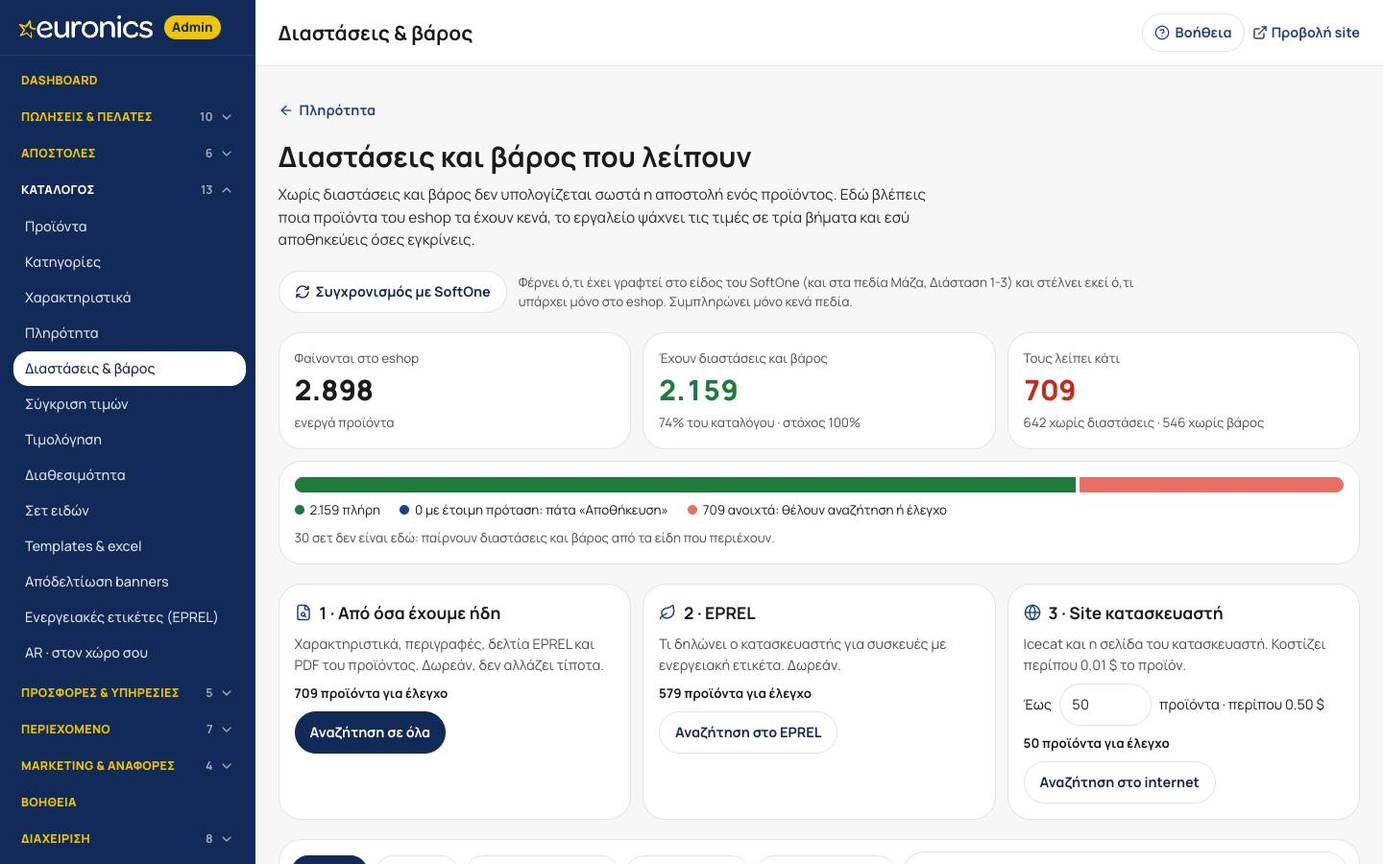
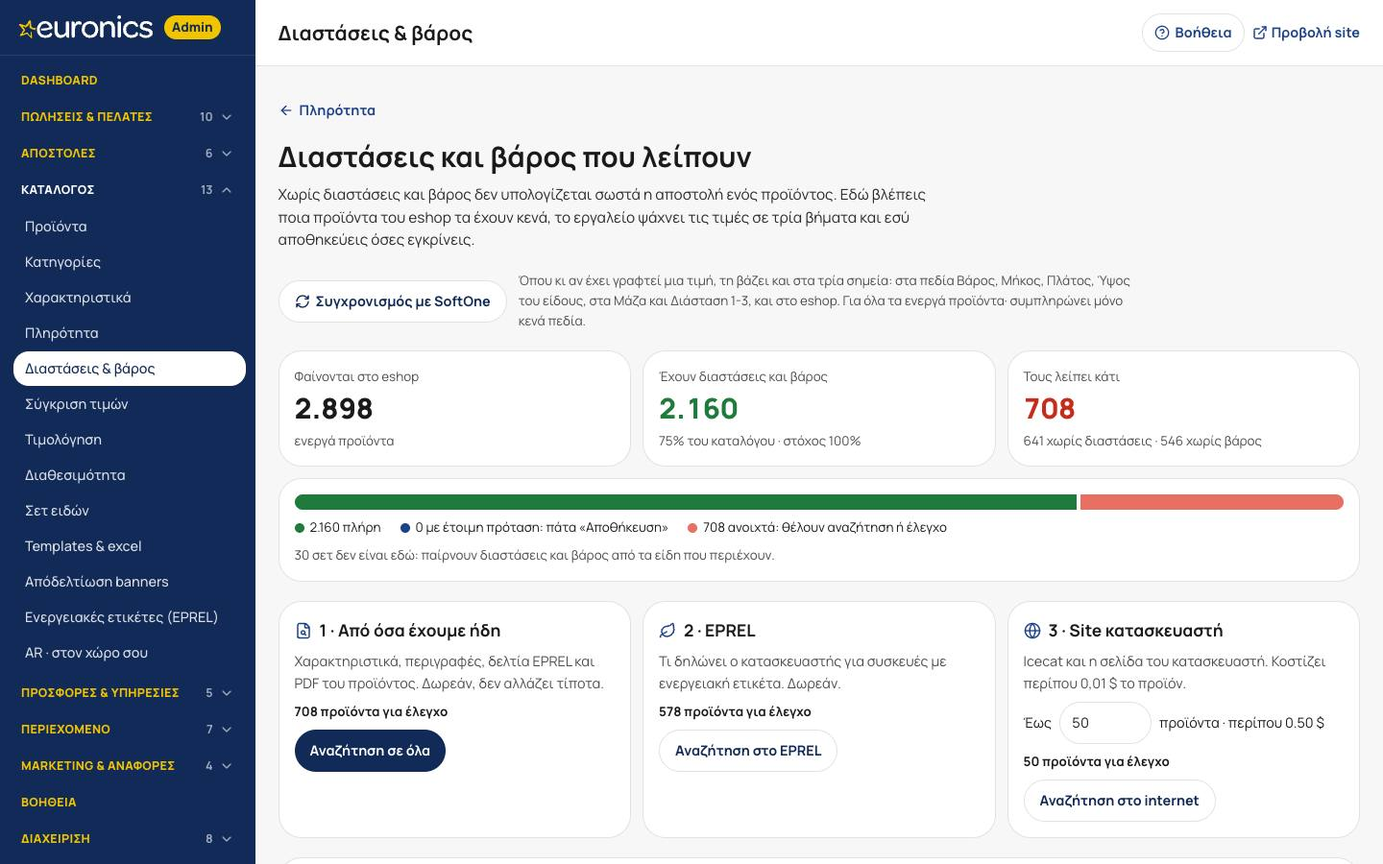
Διαστάσεις & βάρος: κουμπί «Από SoftOne» σε κάθε προϊόν (συγχρονισμός μόνο του συγκεκριμένου, με μήνυμα για το τι άλλαξε) και ο συγχρονισμός ενημερώνει πάντα και τα τρία σημεία, όπου κι αν γράφτηκε η τιμή: custom πεδία του είδους (Βάρος, Μήκος, Πλάτος, Ύψος), τυπικά (Μάζα, Διάσταση 1-3) και πεδία το

diff --git a/lib/help/content/index.ts b/lib/help/content/index.ts
@@ -936,10 +936,11 @@ export const HELP_PAGES: HelpPage[] = [
     title: "Διαστάσεις και βάρος που λείπουν",
     summary: "Δείχνει ποια προϊόντα που φαίνονται στο eshop δεν έχουν διαστάσεις ή βάρος (χωρίς αυτά δεν υπολογίζεται σωστά η αποστολή) και τα συμπληρώνει μαζικά. Το εργαλείο ψάχνει τις τιμές σε τρία βήματα, δείχνει από πού βγήκε η καθεμία και αποθηκεύει μόνο όσες εγκρίνεις.",
     parts: [
-      { key: "dims-missing.sync", title: "Συγχρονισμός με SoftOne", text: "Για όταν κάποιος έγραψε διαστάσεις ή βάρος απευθείας στο SoftOne και δεν φαίνονται εδώ. Το eshop διαβάζει τα πεδία Βάρος, Μήκος, Πλάτος, Ύψος του είδους· αν οι τιμές μπήκαν στα Μάζα και Διάσταση 1-3, ο συγχρονισμός τις αντιγράφει και στα πρώτα (και αντίστροφα), στέλνει στο SoftOne ό,τι υπάρχει μόνο στο eshop και ξαναδιαβάζει το είδος. Συμπληρώνει μόνο κενά πεδία: όπου υπάρχει ήδη τιμή, ακόμη και διαφορετική, δεν αλλάζει. Δείχνει πρόοδο και σταματά με «Σταμάτα»· αν το πατήσεις ξανά συνεχίζει με τα υπόλοιπα." },
+      { key: "dims-missing.sync", title: "Συγχρονισμός με SoftOne", text: "Για όταν κάποιος έγραψε διαστάσεις ή βάρος απευθείας στο SoftOne και δεν φαίνονται εδώ. Το eshop διαβάζει τα πεδία Βάρος, Μήκος, Πλάτος, Ύψος του είδους· αν οι τιμές μπήκαν στα Μάζα και Διάσταση 1-3, ο συγχρονισμός τις αντιγράφει και στα πρώτα (και αντίστροφα), στέλνει στο SoftOne ό,τι υπάρχει μόνο στο eshop, ξαναδιαβάζει το είδος και γεμίζει τα δικά μας πεδία του eshop. Έτσι, όπου κι αν γράφτηκε μια τιμή, καταλήγει και στα τρία σημεία, για όλα τα ενεργά προϊόντα και όχι μόνο όσα φαίνονται στη λίστα. Η πρώτη φορά αφορά πολλά είδη και παίρνει ώρα. Συμπληρώνει μόνο κενά πεδία: όπου υπάρχει ήδη τιμή, ακόμη και διαφορετική, δεν αλλάζει. Δείχνει πρόοδο και σταματά με «Σταμάτα»· αν το πατήσεις ξανά συνεχίζει με τα υπόλοιπα." },
       { key: "dims-missing.summary", title: "Πού βρισκόμαστε", text: "Πόσα προϊόντα φαίνονται στο eshop, πόσα έχουν διαστάσεις και βάρος και πόσα όχι. Η μπάρα: πράσινο = πλήρη, μπλε = έχουν έτοιμη πρόταση και περιμένουν «Αποθήκευση», κόκκινο = ανοιχτά. Τα σετ δεν μετρούν εδώ, παίρνουν τις τιμές από τα είδη τους." },
       { key: "dims-missing.steps", title: "Τα τρία βήματα αναζήτησης", text: "1. Από όσα έχουμε ήδη: χαρακτηριστικά, περιγραφές, δελτία EPREL και PDF. Δωρεάν, δεν αλλάζει τίποτα. 2. EPREL: τι δηλώνει ο κατασκευαστής για συσκευές με ενεργειακή ετικέτα. Δωρεάν· ό,τι βρεθεί μένει στο προϊόν (ετικέτα, χαρακτηριστικά). 3. Site κατασκευαστή: Icecat και η σελίδα του κατασκευαστή, περίπου 0,01 $ το προϊόν, με όριο που βάζεις εσύ. Κάθε βήμα ψάχνει μόνο όσα δεν έχουν ακόμη έτοιμη πρόταση. Με «Σταμάτα» κρατάς ό,τι βρέθηκε ως εκείνη τη στιγμή." },
       { key: "dims-missing.list", title: "Προϊόντα και προτάσεις", text: "Ανά προϊόν: τι λείπει, η πρόταση (Πλάτος × Ύψος × Βάθος σε εκ., βάρος σε κιλά), από ποια πηγή και πόσες πηγές συμφωνούν. «Έτοιμο» = βρέθηκε ό,τι λείπει και τίποτα δεν είναι ύποπτο· είναι ήδη τσεκαρισμένο. «Απαιτεί ενέργεια» = απίθανη τιμή (π.χ. βάρος λίγων γραμμαρίων σε μεγάλη συσκευή), πηγές που διαφωνούν ή βρέθηκε μόνο το ένα από τα δύο· αν συμφωνείς, πάτα «Σωστό, αποθήκευση» στη γραμμή του και αποθηκεύεται αμέσως μόνο αυτό (ή τσέκαρέ το για να φύγει μαζί με τα υπόλοιπα). «Δεν βρέθηκε» = καμία πηγή δεν έδωσε τιμή." },
+      { key: "dims-missing.sync-one", title: "Συγχρονισμός ενός προϊόντος", text: "Το κουμπί «Από SoftOne» στη γραμμή κάνει τον ίδιο συγχρονισμό μόνο για αυτό το προϊόν, σε λίγα δευτερόλεπτα: χρήσιμο όταν μόλις έγραψες διαστάσεις ή βάρος στο είδος του SoftOne. Το μήνυμα λέει αν το προϊόν συμπληρώθηκε και έφυγε από τη λίστα ή τι του λείπει ακόμη." },
       { key: "dims-missing.manual", title: "Καταχώρηση με το χέρι", text: "Το κουμπί «Καταχώρηση» σε κάθε προϊόν ανοίγει παράθυρο όπου γράφεις πλάτος, ύψος, βάθος (εκ.) και βάρος (κιλά). Ζητά μόνο ό,τι λείπει και ξεκινά με την πρόταση, αν υπάρχει. Οι διαστάσεις μπαίνουν και οι τρεις μαζί. Αποθηκεύεται αμέσως, στο eshop και στο SoftOne, όπως και οι προτάσεις." },
       { key: "dims-missing.save", title: "Αποθήκευση", text: "Αποθηκεύει τα τσεκαρισμένα. Στο eshop πάντα. Στο είδος του SoftOne (όταν είναι ανοιχτό το «Αλλαγές προϊόντων προς SoftOne»): Βάρος, Μήκος, Πλάτος, Ύψος και τα τυπικά πεδία Μάζα και Διάσταση 1 (μήκος), 2 (πλάτος), 3 (ύψος), σε κιλά και εκατοστά. Γράφεται μόνο πεδίο που είναι κενό· ό,τι υπάρχει ήδη δεν αλλάζει και οι τρεις διαστάσεις γράφονται μόνο μαζί." },
       { key: "dims-missing.result", title: "Τι αποθηκεύτηκε", text: "Μετά την αποθήκευση: πόσα γράφτηκαν και στο SoftOne (πράσινο), πόσα μόνο στο eshop (μπλε) και ποια απέτυχαν με τον λόγο. Όσα αποθηκεύτηκαν φεύγουν από τη λίστα." },

diff --git a/components/admin/catalog/DimsMissingTool.tsx b/components/admin/catalog/DimsMissingTool.tsx
@@ -38,6 +38,7 @@ export function DimsMissingTool({ overview, canWrite, s1On, eprelKey }: { overvi
   const stop = useRef(false);
   const [savingId, setSavingId] = useState<string | null>(null);
   const [manual, setManual] = useState<MissingRow | null>(null);
+  const [syncingId, setSyncingId] = useState<string | null>(null);
 
   const statusOf = (id: string) => props.get(id)?.status ?? "pending";
   const counts = useMemo(() => { const c = { ready: 0, review: 0, none: 0, pending: 0 }; for (const r of rows) c[props.get(r.id)?.status ?? "pending"]++; return c; }, [rows, props]);
@@ -109,6 +110,18 @@ export function DimsMissingTool({ overview, canWrite, s1On, eprelKey }: { overvi
     } catch { setMsg({ ok: false, text: "Ο συγχρονισμός σταμάτησε από σφάλμα. Πάτα ξανά για να συνεχίσει από εκεί που έμεινε." }); }
     setBusy(null);
   }
+  /** Συγχρονισμός ενός προϊόντος με το SoftOne (ίδιος κανόνας με τον μαζικό). */
+  async function syncOne(r: MissingRow) {
+    setMsg(null); setSaved(null); setSyncingId(r.id);
+    try {
+      const o = await syncRunAction([r.id]);
+      const next = await missingRowsAction();
+      setRows(next);
+      const gone = !next.some((x) => x.id === r.id);
+      setMsg(o.failed.length ? { ok: false, text: `${r.title}: ${o.failed[0].error}` } : { ok: true, text: `${r.title}: ${o.written ? "συμπληρώθηκαν κενά πεδία στο SoftOne και " : ""}διαβάστηκε ξανά από το SoftOne. ${gone ? "Έχει πλέον διαστάσεις και βάρος και έφυγε από τη λίστα." : "Του λείπουν ακόμη στοιχεία· το SoftOne δεν έχει τιμή σε αυτά τα πεδία."}` });
+    } catch { setMsg({ ok: false, text: "Ο συγχρονισμός του προϊόντος απέτυχε. Δοκίμασε ξανά." }); }
+    setSyncingId(null);
+  }
   const saving = busy?.label === "Αποθήκευση";
   const progress = busy && (
           <div className="rounded-2xl border border-eu-line bg-white p-4 grid gap-2 w-full">
@@ -130,7 +143,7 @@ export function DimsMissingTool({ overview, canWrite, s1On, eprelKey }: { overvi
     <div className="grid gap-5 min-w-0">
       <div data-help="dims-missing.sync" className="flex flex-wrap items-center gap-3">
         <button type="button" disabled={!!busy || !canWrite} onClick={sync} className={`${btn} border border-eu-line bg-white text-eu-navy hover:border-eu-navy`}><RefreshCw className="size-4" aria-hidden /> Συγχρονισμός με SoftOne</button>
-        <p className="m-0 flex-1 min-w-[240px] max-w-[80ch] text-eu-ink-3 text-[length:var(--fs-13)]">Φέρνει ό,τι έχει γραφτεί στο είδος του SoftOne (και στα πεδία Μάζα, Διάσταση 1-3) και στέλνει εκεί ό,τι υπάρχει μόνο στο eshop. Συμπληρώνει μόνο κενά πεδία{s1On ? "" : " · η εγγραφή στο SoftOne είναι κλειστή, οπότε τώρα μόνο διαβάζει"}.</p>
+        <p className="m-0 flex-1 min-w-[240px] max-w-[80ch] text-eu-ink-3 text-[length:var(--fs-13)]">Όπου κι αν έχει γραφτεί μια τιμή, τη βάζει και στα τρία σημεία: στα πεδία Βάρος, Μήκος, Πλάτος, Ύψος του είδους, στα Μάζα και Διάσταση 1-3, και στο eshop. Για όλα τα ενεργά προϊόντα· συμπληρώνει μόνο κενά πεδία{s1On ? "" : " · η εγγραφή στο SoftOne είναι κλειστή, οπότε τώρα μόνο διαβάζει"}.</p>
       </div>
       <section data-help="dims-missing.summary" className="grid gap-3 min-w-0">
         <div className="grid grid-cols-1 @2xl:grid-cols-3 gap-3">
@@ -222,9 +235,10 @@ export function DimsMissingTool({ overview, canWrite, s1On, eprelKey }: { overvi
                   {p?.status === "none" && <div className="text-eu-ink-3 text-[length:var(--fs-13)]">Καμία πηγή δεν έδωσε τιμή. Δοκίμασε το επόμενο βήμα ή συμπλήρωσέ το στην καρτέλα του προϊόντος.</div>}
                   {!p && <div className="text-eu-ink-3 text-[length:var(--fs-13)]">Τρέξε το βήμα 1 για πρόταση.</div>}
                 </div>
-                <div className="col-start-2 @3xl:col-start-auto flex flex-wrap @3xl:flex-col items-center @3xl:items-end gap-2">
+                <div className="col-start-2 @3xl:col-start-auto flex flex-wrap items-center @3xl:justify-end @3xl:max-w-[290px] gap-2">
                   <span className={`w-fit inline-flex items-center gap-1 rounded-full px-2.5 py-1 font-bold text-[length:var(--fs-13)] whitespace-nowrap ${st.cls}`}><st.Icon className="size-3.5" aria-hidden />{st.label}</span>
                   {canWrite && <button type="button" disabled={!!busy} onClick={() => setManual(r)} data-help="dims-missing.manual" className={`${btn} @3xl:min-h-9 px-3 text-[length:var(--fs-13)] border border-eu-line bg-white text-eu-navy hover:border-eu-navy whitespace-nowrap`}><PencilLine className="size-4" aria-hidden /> Καταχώρηση</button>}
+                  {canWrite && <button type="button" disabled={!!busy || !!syncingId} onClick={() => syncOne(r)} data-help="dims-missing.sync-one" className={`${btn} @3xl:min-h-9 px-3 text-[length:var(--fs-13)] border border-eu-line bg-white text-eu-navy hover:border-eu-navy whitespace-nowrap`}><RefreshCw className={`size-4 ${syncingId === r.id ? "animate-spin" : ""}`} aria-hidden /> {syncingId === r.id ? "Συγχρονίζεται" : "Από SoftOne"}</button>}
                   {p?.status === "review" && canWrite && <button type="button" disabled={!!busy} onClick={() => save(r.id)} className={`${btn} @3xl:min-h-9 px-3 text-[length:var(--fs-13)] bg-eu-navy text-white hover:bg-eu-blue whitespace-nowrap`}>{savingId === r.id ? <Loader2 className="size-4 animate-spin" aria-hidden /> : <Check className="size-4" aria-hidden />} {savingId === r.id ? "Αποθηκεύεται" : "Σωστό, αποθήκευση"}</button>}
                 </div>
               </li>

diff --git a/lib/catalog/dims-missing.ts b/lib/catalog/dims-missing.ts
@@ -1,7 +1,7 @@
 import "server-only";
 import { db } from "@/lib/db";
 import { contentDims } from "./dims-from-content";
-import { toRowProposal, s1Changes, s1SyncChanges, S1_DIM_FIELDS, type RowProposal, type S1DimField } from "./dims-missing-core";
+import { toRowProposal, s1Changes, s1SyncChanges, resolveDims, S1_DIM_FIELDS, type RowProposal, type S1DimField } from "./dims-missing-core";
 import { DIM_MIN, DIM_MAX, KG_MIN, KG_MAX, checkDims } from "./dim-fill-core";
 
 /**
@@ -115,13 +115,13 @@ export async function saveOne(pick: SavePick, s1On: boolean): Promise<SaveOutcom
 }
 
 /**
- * Συγχρονισμός με το SoftOne και προς τις δύο κατευθύνσεις, για τα προϊόντα αυτής της σελίδας και όσα έχουν τιμές
- * αποθηκευμένες στο eshop. Στο SoftOne: τα CCC (Βάρος, Μήκος, Πλάτος, Ύψος) και τα τυπικά (Μάζα, Διάσταση 1-3)
+ * Συγχρονισμός με το SoftOne και προς τις δύο κατευθύνσεις, για όλα τα ενεργά είδη (όχι σετ). Κανόνας 17/11/2026: όπου κι
+ * αν έχει καταχωριστεί μια τιμή, ενημερώνονται και τα τρία σημεία — τυπικά πεδία, CCC και eshop. Στο SoftOne: τα CCC (Βάρος, Μήκος, Πλάτος, Ύψος) και τα τυπικά (Μάζα, Διάσταση 1-3)
  * συμπληρώνουν το ένα το άλλο, και ό,τι λείπει και από τα δύο έρχεται από το eshop — μόνο σε κενά πεδία. Στο eshop:
- * το είδος ξαναδιαβάζεται από το SoftOne. Το `syncPlan` βρίσκει ποια χρειάζονται δουλειά με μία μαζική ανάγνωση.
+ * το είδος ξαναδιαβάζεται από το SoftOne και γεμίζουν τα κενά δικά του πεδία (χειροκίνητες διαστάσεις, βάρος προϊόντος). Το `syncPlan` βρίσκει ποια χρειάζονται δουλειά με μία μαζική ανάγνωση.
  */
-const SYNC_WHERE = { active: true, source: "softone", setSpcs: null, OR: [{ publishMissing: { has: "dims" } }, { weightKg: { not: null } }, { dimensions: { some: { source: "manual" } } }] };
-const SYNC_SELECT = { id: true, erpCode: true, weightKg: true, dimensions: { where: { source: "manual" }, select: { w: true, h: true, d: true } } } as const;
+const SYNC_WHERE = { active: true, source: "softone", setSpcs: null };
+const SYNC_SELECT = { id: true, erpCode: true, weightKg: true, category: { select: { name: true } }, dimensions: { where: { source: "manual" }, select: { w: true, h: true, d: true } } } as const;
 const num = (v: unknown) => { const n = Number(String(v ?? "").replace(",", ".")); return n > 0 ? n : null; };
 
 export async function syncPlan(s1On: boolean): Promise<string[]> {
@@ -135,7 +135,8 @@ export async function syncPlan(s1On: boolean): Promise<string[]> {
     const l = live.get(Number(p.erpCode)), m = mo.get(Number(p.erpCode));
     if (!l) return false;
     const stale = (["weightKg", "lengthCm", "widthCm", "heightCm"] as const).some((k) => num(l[k]) !== (m?.[k] && m[k]! > 0 ? m[k] : null));
-    return stale || (s1On && Object.keys(s1SyncChanges(l, { dims: p.dimensions[0] ?? null, kg: p.weightKg })).length > 0);
+    const eshop = { dims: p.dimensions[0] ?? null, kg: p.weightKg }, r = resolveDims(l, eshop);
+    return stale || (!!r.dims && !eshop.dims) || (r.kg != null && eshop.kg == null) || (s1On && Object.keys(s1SyncChanges(l, eshop)).length > 0);
   }).map((p) => p.id);
 }
 
@@ -147,9 +148,17 @@ export async function syncRun(ids: string[], s1On: boolean): Promise<{ done: num
       const mtrl = Number(p.erpCode);
       const live = await readFields(mtrl, S1_DIM_FIELDS);
       if (!live) throw new Error("Το είδος δεν διαβάστηκε από το SoftOne.");
-      const changes = s1On ? s1SyncChanges(live, { dims: p.dimensions[0] ?? null, kg: p.weightKg }) : {};
+      const eshop = { dims: p.dimensions[0] ?? null, kg: p.weightKg }, r = resolveDims(live, eshop);
+      const changes = s1On ? s1SyncChanges(live, eshop) : {};
       if (Object.keys(changes).length) { const w = await writeItem(mtrl, changes); if (!w.ok) throw new Error(w.error ?? "Η εγγραφή στο SoftOne απέτυχε."); out.written++; }
-      await syncItem(mtrl, "manual"); await projectItem(mtrl);
+      // το είδος ξαναδιαβάζεται μόνο όταν γράφτηκε κάτι ή ο καθρέφτης μας διαφέρει από το SoftOne (αλλιώς ~2″ χαμένα ανά είδος)
+      const m = await db.s1Item.findUnique({ where: { mtrl }, select: { weightKg: true, lengthCm: true, widthCm: true, heightCm: true } });
+      const stale = (["weightKg", "lengthCm", "widthCm", "heightCm"] as const).some((k) => num(live[k]) !== (m?.[k] && m[k]! > 0 ? m[k] : null));
+      if (Object.keys(changes).length || stale) { await syncItem(mtrl, "manual"); await projectItem(mtrl); }
+      // τα δικά μας πεδία του eshop, όπου είναι κενά· τιμές του SoftOne εκτός ορίων (π.χ. παλιές σε μέτρα) δεν αντιγράφονται
+      const src = { label: "SoftOne", raw: "συγχρονισμός" };
+      const fill: SavePick = { productId: p.id, dims: r.dims && !eshop.dims ? { ...r.dims, ...src } : null, weight: r.kg != null && eshop.kg == null ? { kg: r.kg, ...src } : null };
+      if (!pickError(fill)) await saveEshopDims(fill, p.category.name);
       out.done++;
     } catch (e) { console.error("[dims-missing] sync", p.id, e); out.failed.push({ id: p.id, error: (e as Error).message.slice(0, 160) }); }
   }

diff --git a/lib/catalog/dims-missing-core.ts b/lib/catalog/dims-missing-core.ts
@@ -60,12 +60,12 @@ export function s1Changes(live: Record<S1DimField, unknown>, pick: { dims?: { w:
 
 /**
  * Συγχρονισμός και προς τις δύο κατευθύνσεις για ένα είδος: τα CCC και τα τυπικά πεδία του SoftOne συμπληρώνουν το ένα το
- * άλλο, και ό,τι λείπει και από τα δύο έρχεται από το eshop. Πάντα μόνο σε κενά πεδία· όπου έχουν και τα δύο τιμή (ακόμη
+ * άλλο, και ό,τι λείπει και από τα δύο έρχεται από το eshop (`resolveDims` = η τιμή που ισχύει, με αυτή τη σειρά). Πάντα μόνο σε κενά πεδία· όπου έχουν και τα δύο τιμή (ακόμη
  * και διαφορετική, π.χ. καθαρό / μικτό βάρος) δεν αλλάζει τίποτα.
  */
-export function s1SyncChanges(live: Record<S1DimField, unknown>, eshop: { dims?: { w: number; h: number; d: number } | null; kg?: number | null }) {
+export function resolveDims(live: Record<S1DimField, unknown>, eshop: { dims?: { w: number; h: number; d: number } | null; kg?: number | null }) {
   const v = (k: S1DimField) => { const n = Number(String(live[k] ?? "").replace(",", ".")); return n > 0 ? n : null; };
   const triple = (d: number | null, w: number | null, h: number | null) => (d && w && h ? { d, w, h } : null);
-  const dims = triple(v("lengthCm"), v("widthCm"), v("heightCm")) ?? triple(v("dim1"), v("dim2"), v("dim3")) ?? eshop.dims ?? null;
-  return s1Changes(live, { dims, kg: v("weightKg") ?? v("mass") ?? eshop.kg ?? null });
+  return { dims: triple(v("lengthCm"), v("widthCm"), v("heightCm")) ?? triple(v("dim1"), v("dim2"), v("dim3")) ?? eshop.dims ?? null, kg: v("weightKg") ?? v("mass") ?? eshop.kg ?? null };
 }
+export const s1SyncChanges = (live: Record<S1DimField, unknown>, eshop: Parameters<typeof resolveDims>[1]) => s1Changes(live, resolveDims(live, eshop));
